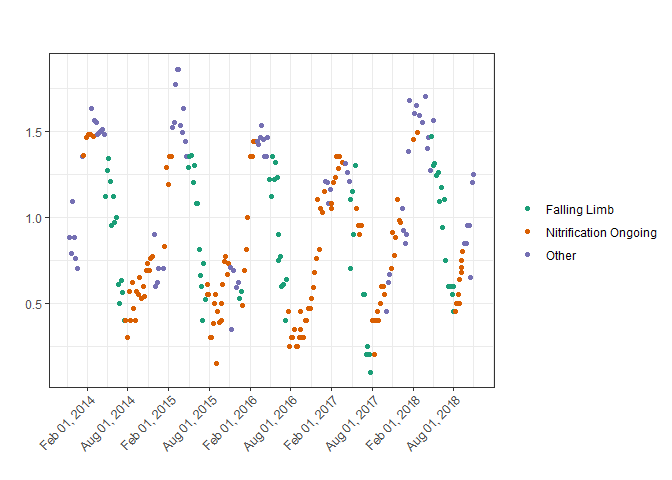
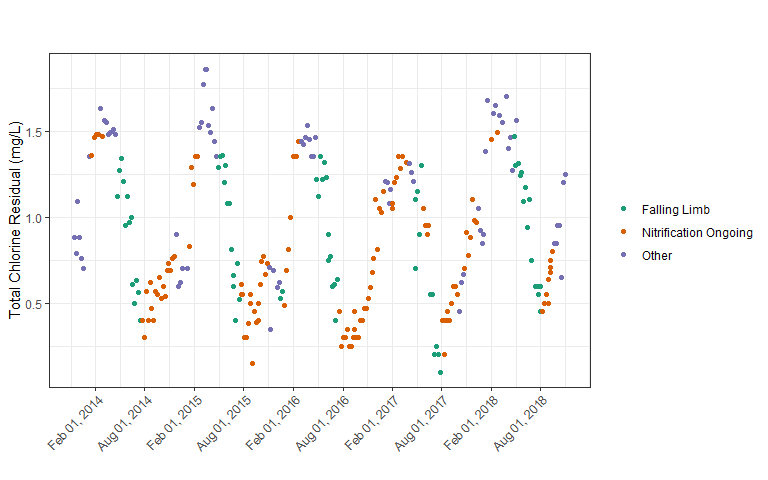
added more sections to readme

diff --git a/README.md b/README.md
@@ -110,7 +110,8 @@ the `plot_fl` function.
 ``` r
 nitrification %>% 
   filter(site == "Site 1") %>% 
-  plot_fl(date_col = date, value_col = chlorine, rolling_window = 7) + 
+  plot_fl(date_col = date, value_col = chlorine, rolling_window = 7,
+          ylab = "Total Chlorine Residual (mg/L)") + 
   theme(axis.text.x = element_text(angle = 45, hjust = 1, vjust = 1))
 ```
 
@@ -122,7 +123,8 @@ changed
 ``` r
 nitrification %>% 
   filter(site == "Site 1") %>% 
-  plot_fl(date_col = date, value_col = chlorine, rolling_window = 12)  + 
+  plot_fl(date_col = date, value_col = chlorine, rolling_window = 12, 
+          ylab = "Total Chlorine Residual (mg/L)",)  + 
   theme(axis.text.x = element_text(angle = 45, hjust = 1, vjust = 1))
 ```
 
@@ -130,4 +132,165 @@ nitrification %>%
 
 In general, datasets that have more frequent data points will benefit
 from larger rolling windows while datasets with less frequent data
-points will benefit from smaller windows
+points will benefit from smaller windows.
+
+You can assess how well these action levels categorize a given dataset
+by using the `plot_al` function.
+
+``` r
+nitrification %>% 
+  filter(site == "Site 1") %>% 
+  plot_al(date_col = date, value_col = chlorine, 
+          ylab = "Total Chlorine Residual (mg/L)", rolling_window = 7) + 
+  theme(axis.text.x = element_text(angle = 45, hjust = 1, vjust = 1))
+```
+
+![](man/figures/README-plot-al-falling-limb-1.png)<!-- -->
+
+### General Percentiles
+
+The second method that can be used to create action levels is general
+percentiles. In this case, rather than taking percentiles of a subset of
+the data (as in the falling limb mehtod), percentiles are taken of the
+overall data. By default, the percentiles selected are the same as the
+ones used in the falling limb method (80%, 50%, and 10%).
+
+This option is done by setting `method = "P"`.
+
+``` r
+nitrification %>% 
+  filter(site == "Site 1") %>% 
+  nitrification_al(date_col = date, value_col = chlorine, method = "P",
+                   ylab = "Total Chlorine Residual (mg/L)",)
+```
+
+    ## # A tibble: 1 x 4
+    ##   ylab                  `Action Level 1` `Action Level 2` `Action Level 3`
+    ##   <chr>                            <dbl>            <dbl>            <dbl>
+    ## 1 Total Chlorine Resid~             1.35             0.81              0.4
+
+Similar to the falling lumb method, you can plot the classification of
+data points to see how well these action levels classify the data by
+using the `plot_al` function.
+
+``` r
+nitrification %>% 
+  filter(site == "Site 1") %>% 
+  plot_al(date_col = date, value_col = chlorine, method = "P",
+          ylab = "Total Chlorine Residual (mg/L)") + 
+  theme(axis.text.x = element_text(angle = 45, hjust = 1, vjust = 1))
+```
+
+    ## Warning: Removed 2 rows containing missing values (geom_point).
+
+![](man/figures/README-plot-al-percentiles-1.png)<!-- -->
+
+### Mutliple Sites
+
+`dwqr`’s nitrification functions allow for multiple sites to be passed
+to them so that site specific action levels can be generated. This is
+done by passing all grouping columns as unnmaed arguments after the
+`date_col` and `value_col` columns. In the case of our `nitrification`
+dataset, this would be the `site` column. You may have noticed that I
+was using a `filter` statement in the code above to only include data
+for “Site 1”. Now let’s try the same thing as before but set the `site`
+column as a grouping variable.
+
+``` r
+nitrification %>% 
+  nitrification_al(date_col = date, value_col = chlorine, site)
+```
+
+    ## # A tibble: 2 x 4
+    ##   site   `Action Level 1` `Action Level 2` `Action Level 3`
+    ##   <chr>             <dbl>            <dbl>            <dbl>
+    ## 1 Site 1             1.08             1.05             1.05
+    ## 2 Site 2             1.31             0.9              0.3
+
+As we can see, there is now action levels generated for each of the
+sites in the data set\! If a grouping variable is passed to one of the
+plotting functions, the groups are separated by `facet_wrap` in the
+`ggplot2` package.
+
+``` r
+nitrification %>% 
+  plot_fl(date_col = date, value_col = chlorine, site,
+          ylab = "Total Chlorine Residual (mg/L)",
+          ncol = 1) + 
+  theme(axis.text.x = element_text(angle = 45, hjust = 1, vjust = 1))
+```
+
+![](man/figures/README-plot-fl-grouped-1.png)<!-- -->
+
+### Plotting the first derivative and nitrite
+
+The `plot_fl` function also allowd for users to plot the first
+derivative of the chlorine trend (a key component in the calculation of
+the falling limb) and any associated nitrite data. In order to include
+the first derivative plot, you simply must set `include_first = TRUE`.
+
+``` r
+nitrification %>% 
+  filter(site == "Site 1") %>% 
+  plot_fl(
+    date_col = date, value_col = chlorine, 
+    rolling_window = 7, include_first = TRUE,
+    ylab = "Total Chlorine Residual (mg/L)",
+    theme = theme(
+      axis.text.x = element_text(angle = 45, hjust = 1, vjust = 1)
+    )
+  )
+```
+
+    ## Warning: Removed 6 rows containing missing values (geom_path).
+
+![](man/figures/README-fl-first-deriv-1.png)<!-- -->
+
+**NOTE:** In this past plot, the `theme` argument was used inside of
+`plot_fl`. When either the first derivative or nitrite plots are
+included with your falling limb plot, you must specify all ggplot2 theme
+elements with the `theme` argument. This will apply your desired themes
+to all of the plots. Otherwise, it will only apply it to the last plot.
+
+To plot nitrite data with the falling limb classification, the nitrite
+data must be in a separate column with corresponding sample points lined
+up. You can use the `nitrification` data set as an example.
+
+``` r
+nitrification
+```
+
+    ## # A tibble: 536 x 4
+    ##    site   date       chlorine nitrite
+    ##    <chr>  <date>        <dbl>   <dbl>
+    ##  1 Site 1 2013-10-02     0.66   0.195
+    ##  2 Site 1 2013-10-09     0.54   0.198
+    ##  3 Site 1 2013-10-16     0.7    0.189
+    ##  4 Site 1 2013-10-23     0.68   0.211
+    ##  5 Site 1 2013-10-30     0.52   0.181
+    ##  6 Site 1 2013-11-06     0.65   0.133
+    ##  7 Site 1 2013-11-13     0.88   0.105
+    ##  8 Site 1 2013-11-20     0.79   0.102
+    ##  9 Site 1 2013-11-27     1.09   0.064
+    ## 10 Site 1 2013-12-04     0.88   0.058
+    ## # ... with 526 more rows
+
+Plotting the two together would look like this.
+
+``` r
+nitrification %>% 
+  filter(site == "Site 1") %>% 
+  plot_fl(
+    date_col = date, value_col = chlorine, 
+    rolling_window = 7, nitrite_col = nitrite,
+    ylab = "Total Chlorine Residual (mg/L)",
+    nitrite_ylab = "Nitrite (mg N/L)",
+    theme = theme(
+      axis.text.x = element_text(angle = 45, hjust = 1, vjust = 1)
+    )
+  )
+```
+
+    ## Warning: Removed 1466 rows containing missing values (geom_point).
+
+![](man/figures/README-fl-with-nitrite-1.png)<!-- -->
